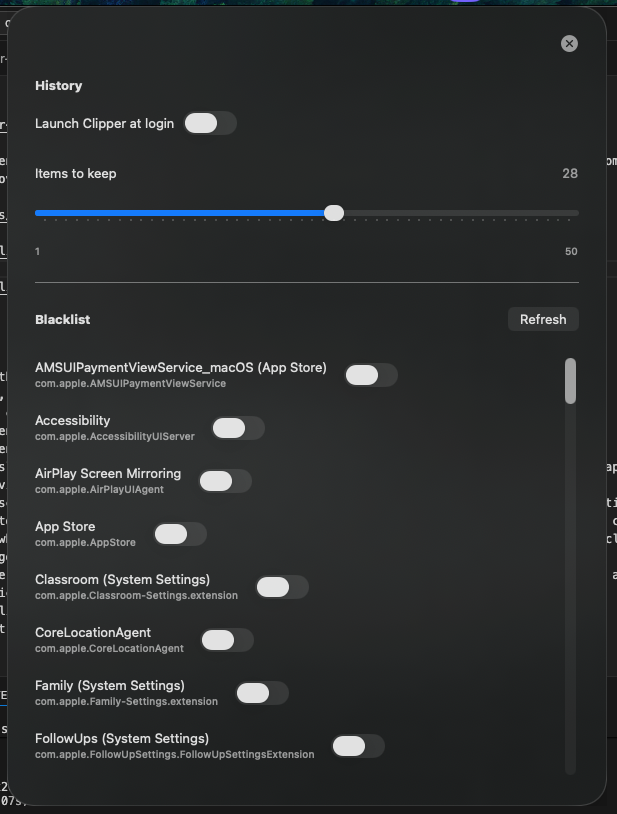
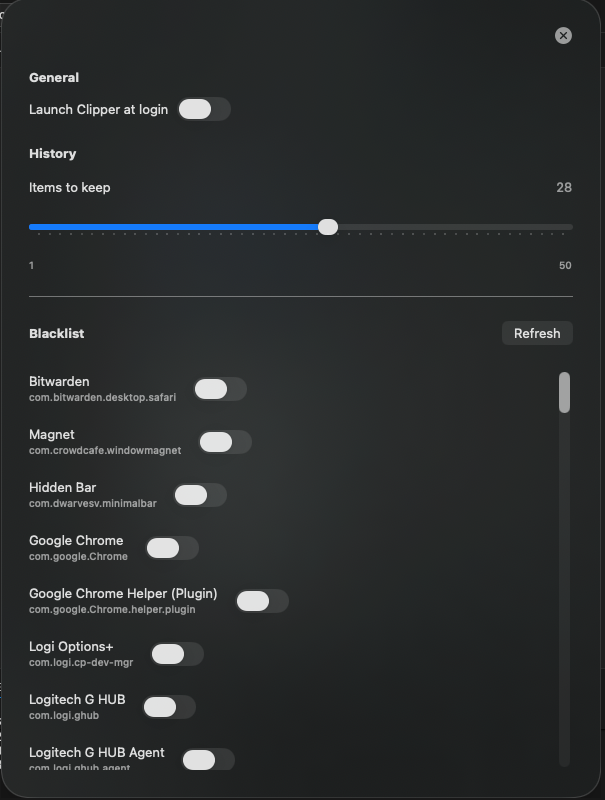
separate general settings section

diff --git a/Sources/ClipperApp/SettingsView.swift b/Sources/ClipperApp/SettingsView.swift
@@ -21,6 +21,7 @@ struct SettingsView: View {
                     }
                     .buttonStyle(.plain)
                 }
+                generalSection
                 historySection
                 Divider()
                     .background(Color.white.opacity(0.3))
@@ -42,13 +43,19 @@ struct SettingsView: View {
         .onExitCommand(perform: onClose)
     }
 
+    private var generalSection: some View {
+        VStack(alignment: .leading, spacing: 12) {
+            Text("General")
+                .font(.headline)
+            Toggle("Launch Clipper at login", isOn: $settings.launchAtLogin)
+                .toggleStyle(SwitchToggleStyle(tint: .accentColor))
+        }
+    }
+
     private var historySection: some View {
         VStack(alignment: .leading, spacing: 18) {
             Text("History")
                 .font(.headline)
-            Toggle("Launch Clipper at login", isOn: $settings.launchAtLogin)
-                .toggleStyle(SwitchToggleStyle(tint: .accentColor))
-                .padding(.bottom, 12)
             HStack {
                 Text("Items to keep")
                 Spacer()
@@ -127,7 +134,14 @@ struct SettingsView: View {
         let running = NSWorkspace.shared.runningApplications
             .compactMap { $0.bundleIdentifier }
         let combined = Array(Set(running + settings.blacklistedBundleIDs))
-        availableBundleIDs = combined.sorted()
+        availableBundleIDs = combined.sorted { lhs, rhs in
+            let lhsApple = lhs.hasPrefix("com.apple.")
+            let rhsApple = rhs.hasPrefix("com.apple.")
+            if lhsApple == rhsApple {
+                return lhs.localizedCaseInsensitiveCompare(rhs) == .orderedAscending
+            }
+            return rhsApple
+        }
     }
 
     private func displayName(for bundleID: String) -> String {
